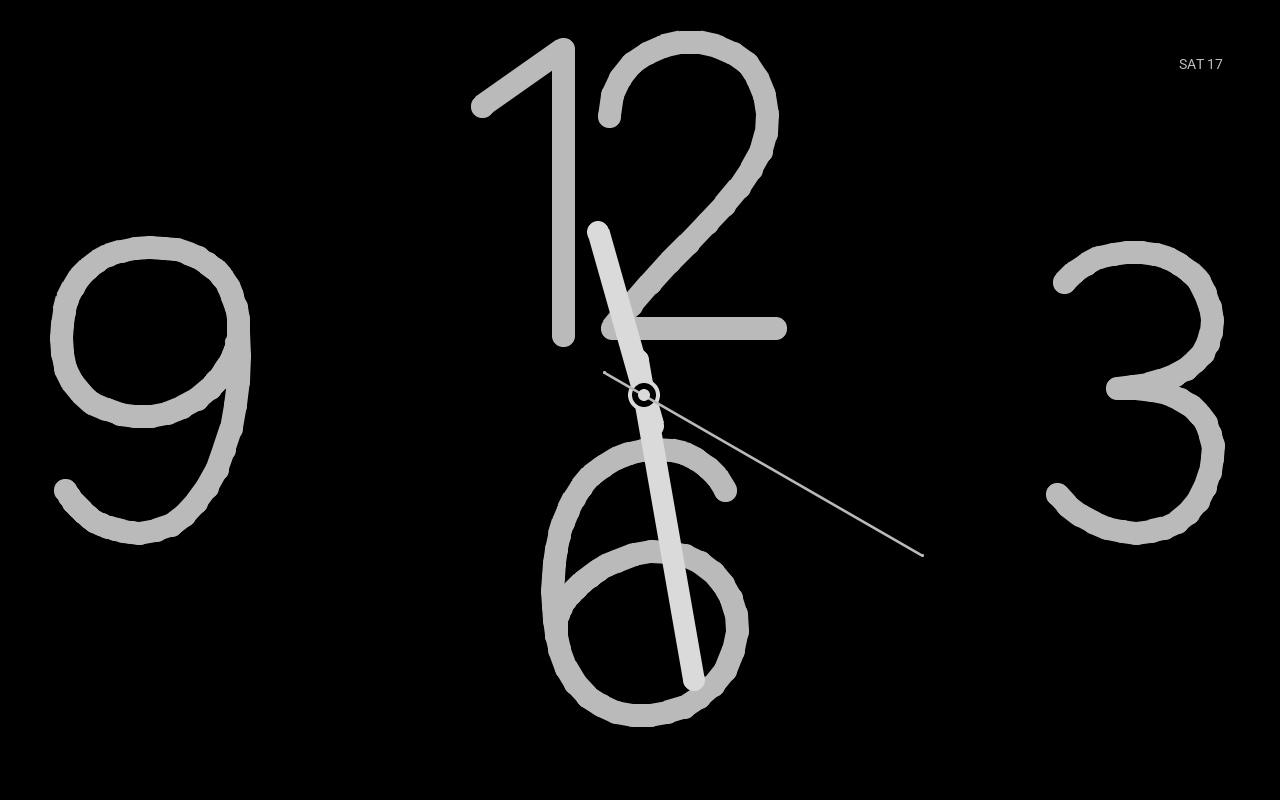
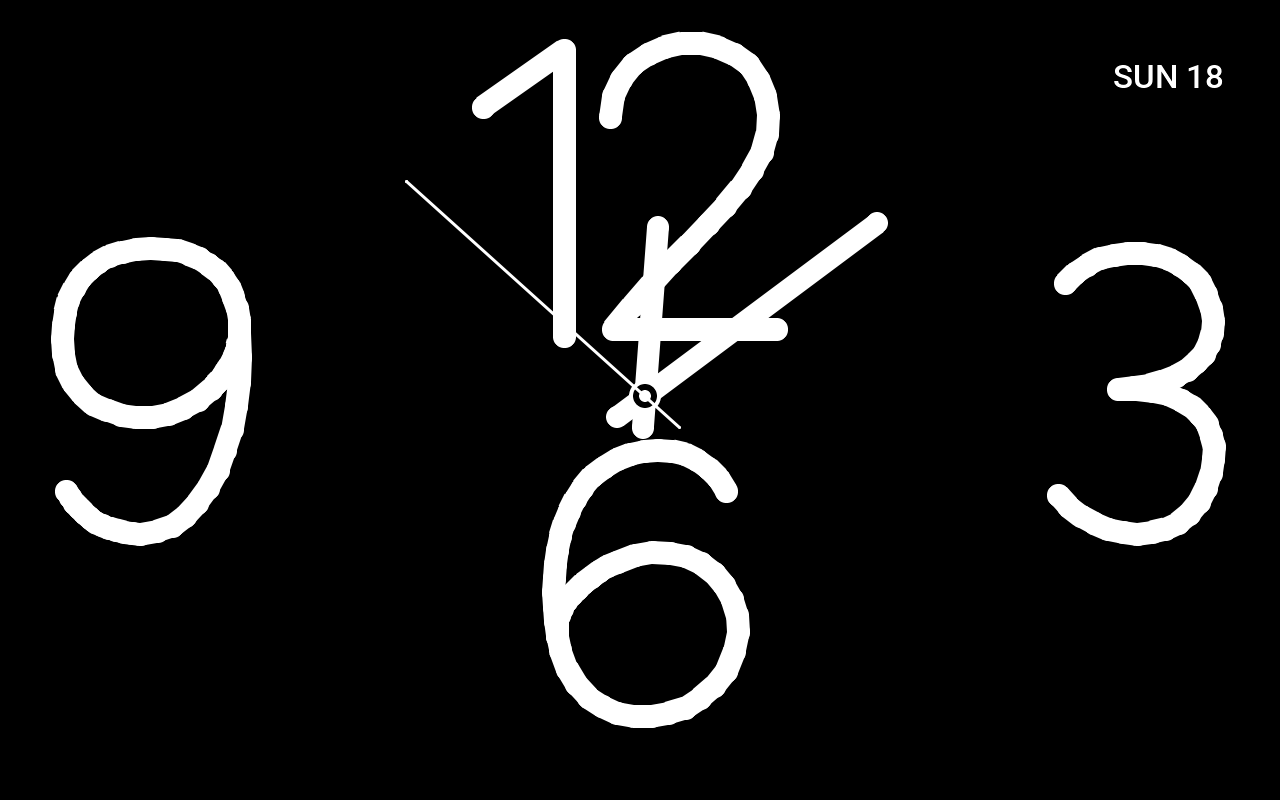
Publish verified 0.2.0 screenshots and listing image [skip ci]

diff --git a/README.md b/README.md
@@ -1,10 +1,10 @@
 # Watch Clock for Tessera
 
-A native screensaver face for Tessera, ported from [Watch Clock for Kiosk Satellite](https://github.com/dark-matter-design/kiosk-satellite-watch-clock-screensaver). The original oversized geometric 12, 3, 6 and 9 are drawn as vector polylines, with rounded white hour and minute hands, a fine seconds hand and a larger coloured date. No browser, external font, image download or Android component is needed.
+A native screensaver face for Tessera, ported from [Watch Clock for Kiosk Satellite](https://github.com/dark-matter-design/kiosk-satellite-watch-clock-screensaver). The original oversized geometric 12, 3, 6 and 9 are drawn as vector polylines, with rounded contrasting hour and minute hands, a fine seconds hand and a larger coloured date. No browser, external font, image download or Android component is needed.
 
 ![Watch Clock rendered by the real Tessera firmware](store.png)
 
-Full firmware previews: [4-inch square](docs/previews/guition-4-inch.png), [7-inch](docs/previews/guition-7-inch.png), [10.1-inch adaptive](docs/previews/guition-10-inch-adaptive.png).
+Full firmware previews: [black-background face](docs/previews/guition-4-inch-black.png), [4-inch square](docs/previews/guition-4-inch.png), [7-inch](docs/previews/guition-7-inch.png), [10.1-inch adaptive](docs/previews/guition-10-inch-adaptive.png).
 
 **Requires Tessera plugin API 0.14 or newer.** Tessera rejects installation on older firmware. Check the API supported by your installed Tessera version; use the Tessera dev channel if its stable release does not yet include screensaver plugins.
 
@@ -13,7 +13,7 @@ Full firmware previews: [4-inch square](docs/previews/guition-4-inch.png), [7-in
 1. Open **Plugins** in Tessera and choose **Add with a link**.
 2. Paste `https://github.com/dark-matter-design/tessera-watch-clock-screensaver`.
 3. Add Watch Clock to your screen and build its firmware.
-4. Open that screen's **Settings â†’ Screensaver**, open the **Clock** step and choose **Watch Clock** under **Face**.
+4. Open that screen's **Settings  ->  Screensaver**, open the **Clock** step and choose **Watch Clock** under **Face**.
 5. Enable **Auto standby**, use a standby brightness above zero and put Clock where you want it in the screensaver order. Any earlier active step takes priority.
 6. Adjust the face options in the Clock drawer. Touching the face wakes the screen normally.
 
@@ -26,7 +26,7 @@ For folder installation, copy the manifest, `plugin.yaml`, `components/`, `trans
 | Face colour | Green (default), White, Blue, Purple, Amber; colours both numerals and date |
 | Coloured background | Off by default; on fills the glass with the face colour and uses black numerals and date |
 | Layout | Original proportions (default), Adaptive spacing |
-| Scale | 50â€“100%, default 100% |
+| Scale | 50-100%, default 100% |
 | Alignment | Centre (default), Left, Right, Top, Bottom |
 | Seconds hand | On by default; one tick per second |
 | Show date | On by default |
@@ -35,7 +35,7 @@ For folder installation, copy the manifest, `plugin.yaml`, `components/`, `trans
 | Date format | Short weekday and day (default), Day and short month, Numeric YYYY-MM-DD |
 | Time zone | Screen time zone (default, follows Tessera including DST), UTC |
 
-Adaptive spacing extends the composition on the longer axis, capped at 1.65 times its square dimension. Hands and numerals keep the source proportions. A small inset preserves Tessera's burn-in movement at every alignment. The date uses the largest built-in font that fits the selected size and corner; weekday and month abbreviations come from the plugin's translations (English included). Until the screen's clock is synchronised, the numerals remain visible and the hands and date are hidden.
+Adaptive spacing extends the composition on the longer axis, capped at 1.65 times its square dimension. Hands and numerals keep the source proportions. A small inset preserves Tessera's burn-in movement at every alignment. Long dates can use free space above or below a scaled clock to stay clear of the numerals. The date uses the largest built-in font that fits the selected size and corner; weekday and month abbreviations come from the plugin's translations (English included). Until the screen's clock is synchronised, the numerals remain visible and the hands and date are hidden.
 
 ## Differences from Kiosk Satellite
 
@@ -58,7 +58,7 @@ python ../tessera-plugins/tools/store_image.py . --from .preview
 
 The official preview bench needs Linux/macOS or WSL with a C++ compiler and SDL2. GitHub Actions runs the manifest checker, geometry tests and real firmware preview on five board profiles in parallel. Its downloadable `watch-clock-preview` artifact contains rendered screens and findings. See [validation notes](docs/VALIDATION.md) for test coverage and hardware limitations.
 
-The additional Guition checks cover the 7-inch JC1060P470 and V2 (1024 Ã— 600), alongside the square 4-inch ESP32-S3-4848S040 (480 Ã— 480) and 10.1-inch JC8012P4A1 (1280 Ã— 800). Both 7-inch boards support standby in Tessera's catalog; their hardware support is marked experimental upstream.
+The additional Guition checks cover the 7-inch JC1060P470 and V2 (1024 x 600), alongside the square 4-inch ESP32-S3-4848S040 (480 x 480) and 10.1-inch JC8012P4A1 (1280 x 800). Both 7-inch boards support standby in Tessera's catalog; their hardware support is marked experimental upstream.
 
 The plugin is installed from source; no Kiosk Satellite ZIP, DEX or APK is used. Without a GitHub release, Tessera follows the default branch as a test installation. Releases are intentionally deferred until a real screen has been tested.
 
@@ -68,4 +68,4 @@ Original geometric numeral outlines and watch proportions: dark-matter-design's 
 
 ## Preview in Tessera
 
-The plugin listing uses the generated `store.png` from the installed plugin revision. Update the plugin to 0.2.0 and refresh Tessera to load the new image; old pinned revisions may lack the store picture. The Screensaver → Clock editor currently replaces every third-party face with its icon and example text. A plugin cannot replace that editor component through the current manifest API. See `compatibility/` for the prepared Tessera editor integration patch and its status.
+The plugin listing uses the generated `store.png` from the loaded plugin revision. Update the plugin to 0.2.0 and refresh Tessera to load the new image; old pinned revisions may lack the store picture. The Screensaver → Clock editor currently replaces every third-party face with its icon and example text. A plugin cannot replace that editor component through the current manifest API. The [prepared Tessera editor integration patch](compatibility/README.md) is kept in this repository and has not been submitted upstream or applied to your add-on.

diff --git a/docs/VALIDATION.md b/docs/VALIDATION.md
@@ -1,30 +1,34 @@
 # Validation
 
-This beta requires Tessera plugin API 0.14. It must still be tested on a physical Tessera device before a stable release.
+Version 0.2.0 requires Tessera plugin API 0.14. The updated face still needs testing on physical screens before a stable release.
 
 ## Completed results
 
-On 18 October 2026 (Australia/Sydney), [CI run 39070777585](https://github.com/dark-matter-design/tessera-watch-clock-screensaver/actions/runs/39070777585) passed the official checker, native C++ geometry tests and both strict real-firmware benches for source revision `4598934`. Together the benches produced **40 screensaver images with zero warnings**: eight each for CYD, Guition 4-inch, Guition 7-inch JC1060P470, Guition 7-inch JC1060P470 V2 and Guition 10.1-inch. Each model showed all four preview scenarios in both screen themes, with zero findings. The standing Waveshare 4.3-inch built successfully but has no standby, so its four informational findings correctly report that it cannot show a screensaver.
+On 18 October 2026 (Australia/Sydney), [CI run 39073679000](https://github.com/dark-matter-design/tessera-watch-clock-screensaver/actions/runs/39073679000) passed the official checker, native C++ geometry tests, five strict real-firmware preview benches and store image generation for source revision `dced190`.
 
-The generated store picture and the 4-inch, 7-inch and 10-inch previews were visually inspected. The plugin uses Tessera's built-in font for the date and native LVGL line objects for the original vector outlines. The store picture is generated from these actual firmware screenshots; its rendering revision `bf356f8` has identical component code to the final bench revision.
+The benches produced **80 screenshots with zero findings**: eight scenarios in both screen themes for each of these profiles:
 
-## Coverage
+- CYD, 320 x 240.
+- Guition 4-inch square, 480 x 480.
+- Guition 7-inch JC1060P470, 1024 x 600.
+- Guition 7-inch JC1060P470 V2, 1024 x 600.
+- Guition 10.1-inch JC8012P4A1, 1280 x 800.
 
-Automated checks:
+Scenarios cover the green background with black numerals and date, the black background with coloured date, adaptive spacing, hidden seconds/date, UTC numeric date, a white background at 50% clock scale, the narrow top-left date corner, and a top-aligned small clock with a long numeric date.
 
-- Official Tessera manifest and source checker.
-- Native C++ geometry tests against the original renderer: cardinal directions, fractional hour/minute angles, square/adaptive sizing, 1.65 aspect cap, scale clamping, alignment and stroke bounds across supported display sizes.
-- Generated numeral consistency check, including all cubic endpoints.
-- GitHub Actions: official strict preview bench using actual Tessera firmware for CYD, square Guition, standing Waveshare and large Guition displays, in both screen themes. Results and images are uploaded even when the bench fails.
-- Additional strict previews for both Guition 7-inch catalog boards, JC1060P470 and JC1060P470 V2 (1024 × 600). The Guition 4-inch square and 10.1-inch displays are covered by the default bench. These are desktop firmware builds, not hardware acceptance tests.
+The store image, normal and inverted faces, small numeric date, and top-left date cases were visually inspected. Every coloured-background screenshot was also checked at all four corners to confirm it fills the glass without black seams. Long numeric dates move into free space when they cannot fit beside the large numerals. The artwork uses Tessera's drift while the solid background stays fixed.
 
-Physical device checklist (not performed):
+Geometry tests cover cardinal hand directions, fractional hour/minute angles, square/adaptive sizing, the 1.65 aspect cap, scale clamping, alignment and stroke bounds across display sizes. Generated numeral consistency is checked separately. These are desktop builds of the real firmware, not physical panel tests.
 
-- Add by repository link, build and select Watch Clock for the Clock step.
-- Check date, scale, alignment, all accent colours and seconds toggle.
+The optional editor preview patch has its own tests and limitations documented in [compatibility/README.md](../compatibility/README.md). It has not been applied to Tessera or submitted upstream.
+
+## Physical checks remaining for 0.2.0
+
+- Update and rebuild each intended Guition screen, then test the larger coloured date and all face colours.
+- Toggle Coloured background, including white, and check the contrasting hands.
+- Check date positions, formats, sizes, scale and alignment.
 - Verify midnight, time correction, screen time zone, UTC and daylight-saving changes.
 - Leave running for several hours; confirm drift, readable night brightness and stable memory.
 - Verify touch wake, alerts, step changes, black-screen sleep and firmware update teardown.
-- Repeat on CYD without PSRAM and on the intended larger panel.
 
-`flash_kb` is an estimate pending a physical device build; the saver memory budget includes retained numeral points and eleven LVGL objects. A passing desktop bench does not verify real-panel refresh speed, electrical behaviour or device memory pressure.
+`flash_kb` remains an estimate pending a device build. The 4608-byte saver budget includes its retained points, members and twelve LVGL objects. Desktop previews do not verify real-panel refresh speed, electrical behaviour or device memory pressure.
